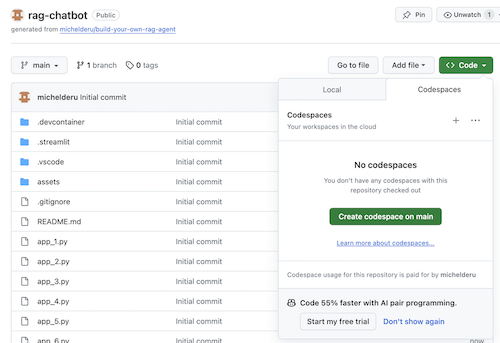
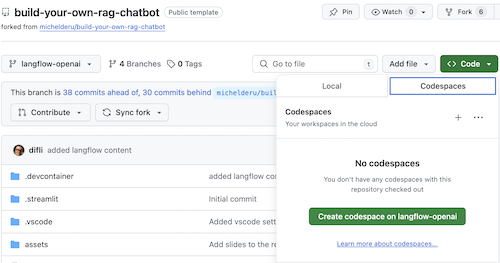
added documentation

diff --git a/README.md b/README.md
@@ -1,20 +1,18 @@
-# Build your own RAG Chatbot
-Welcome to this workshop to build and deploy your own Chatbot using Retrieval Augmented Generation with Astra DB and the OpenAI Chat Model.
+# Build Your Own RAG Chatbot with LangFlow
 
-It leverages [DataStax RAGStack](https://docs.datastax.com/en/ragstack/docs/index.html), which is a curated stack of the best open-source software for easing implementation of the RAG pattern in production-ready applications that use Astra Vector DB or Apache Cassandra as a vector store.
+Welcome to this innovative workshop where you will build and deploy your own Chatbot using Retrieval Augmented Generation and LangFlow. This session allows you to integrate cutting-edge AI technologies seamlessly, simplifying the development process and enabling you to focus more on creativity and functionality.
 
 ![codespace](./assets/chatbot.png)
 
-What you'll learn:
-- 🤩 How to leverage [DataStax RAGStack](https://docs.datastax.com/en/ragstack/docs/index.html) for production-ready use of the following components:
-    - 🚀 The [Astra DB Vector Store](https://db.new) for Semantic Similarity search
-    - 🦜🔗 [LangChain](https://www.langchain.com) for linking OpenAI and Astra DB
-- 🤖 How to use [OpenAI's Large Language Models](https://platform.openai.com/docs/models) for Q&A style chatbots
-- 👑 How to use [Streamlit](https://streamlit.io) to easily deploy your awesome app to the internet for everyone to see!
+**What you'll learn:**
+- 🚀 **Advanced Vector Search with Astra DB:** Harness the power of [Astra DB's vector search](https://astra.datastax.com) to enhance chatbot responses.
+- 🦜🔗 **LangFlow:** Utilize [LangFlow](https://www.langflow.com) to bridge LLM models with Astra DB, enabling rapid prototyping and fast path to production.
+- 🤖 **Use of OpenAI's Large Language Models:** Explore [OpenAI's language models](https://platform.openai.com/docs/models) for generating natural and relevant chatbot conversations.
+- 👑 **Streamlit Deployment:** Learn to deploy your chatbot on the web using [Streamlit](https://streamlit.io), for real-time user interaction.
 
 - Slides of the presentation can be found [HERE](assets/meetups-slides.pdf)
 
-
+Langflow leverages [DataStax RAGStack](https://docs.datastax.com/en/ragstack/docs/index.html), which is a curated stack of the best open-source software for easing implementation of the RAG pattern in production-ready applications that use Astra Vector DB or Apache Cassandra as a vector store.
 
 ## 1⃣ Prerequisites
 This workshop assumes you have access to:
@@ -66,8 +64,8 @@ You'll learn:
 ## 3⃣ Open this tutorial on Github Codespaces
 To make life easier, we'll use the awesome Github Codespace functionality. Github offers you a completely integrated developer experience and resources to get started quickly. How?
 
-1. Open the [build-your-own-rag-agent](https://github.com/michelderu/build-your-own-rag-agent) repository
-2. Click on `Use this template`->`Ceate new repository` as follows:
+1. Open the [build-your-own-rag-agent](https://github.com/difli/build-your-own-rag-agent/tree/langflow-openai) repository
+2. Click on `Use this template`->`Ceate new repository`. **ENSURE YOU CHECK "Include all branches**:
 
     ![codespace](./assets/create-new-repository.png)
 
@@ -75,12 +73,20 @@ To make life easier, we'll use the awesome Github Codespace functionality. Githu
 
     ![codespace](./assets/repository-name.png)
 
-4. Cool! You just created a copy in your own Gihub account! Now let's get started with coding. Click `Create codespace on main` as follows:
+4. Cool! You just created a copy in your own Gihub account! **Important: Switch the branch to 'langflow-openai'**
+
+    ![codespace](./assets/switch-branch.png)
+
+5. Now let's get started with coding. Click `Create codespace on langflow-openai` as follows:
 
     ![codespace](./assets/create-codespace.png)
+    
+    This will set up your GitHub Codespace environment. It comes fully equipped with everything you'll need for the duration of the workshop. Please allow a few minutes for your environment to be ready.
 
-And you're ready to rock and roll! 🥳  
-As Codespaces creates your dev environment based on `Python 3.11`, it will automatically install the Python dependecies from `requirements.txt`. So, no need to `pip install` anything here. It will also set up prt forwarding so you can access subsequent Streamlit apps from anywhere.  
+    ![codespace](./assets/setting-up-codespaces.png)
+
+And you're ready to rock and roll! 🥳
+As Codespaces creates your dev environment based on `Python 3.10`, it will automatically install the Python dependecies from `requirements.txt`. So, no need to `pip install` anything here. It will also set up port forwarding so you can access subsequent Streamlit apps from anywhere.  
 When the codespace start up, it will run a Streamlit Hello World app for you which shows some of the awesome capabilities of this UI framework. When you're done playing, just click `ctrl-c` in the `terminal` to stop running it.
 
 ## 4⃣ Getting started with Streamlit to build an app
@@ -120,9 +126,11 @@ Simple, isn't it? 🤩
 ## 5⃣ Add a Chatbot interface to the app
 
 In this step we'll start preparing the app to allow for chatbot interaction with a user. We'll use the following Streamlit components:
-1. 
-2. `st.chat_input` in order for a user to allow to enter a question
+
+1. `st.chat_input` in order for a user to allow to enter a question
+
 2. `st.chat_message('human')` to draw the user's input
+
 3. `st.chat_message('assistant')` to draw the chatbot's response
 
 This results in the following code:
@@ -178,9 +186,8 @@ streamlit run app_3.py
 
 Now add multiple questions and you'll see these are redraw to the screen every time Streamlit reruns. 👍
 
-## 7⃣ Now for the cool part! Let's integrate with the OpenAI Chat Model 🤖
+## 7⃣ Now for the cool part! Let's get familiar with Langflow 🤖
 
-Here we'll link back to the work we did using the Colab Notebook and integrate the question with a call to the OpenAI Chat Model.
 
 Remember that Streamlit reruns the code everytime a user interacts? Because of this we'll make use of data and resource caching in Streamlit so that a connection is only set-up once. We'll use `@st.cache_data()` and `@st.cache_resource()` to define caching. `cache_data` is typically used for data structures. `cache_resource` is mostly used for resources like databases.
 
